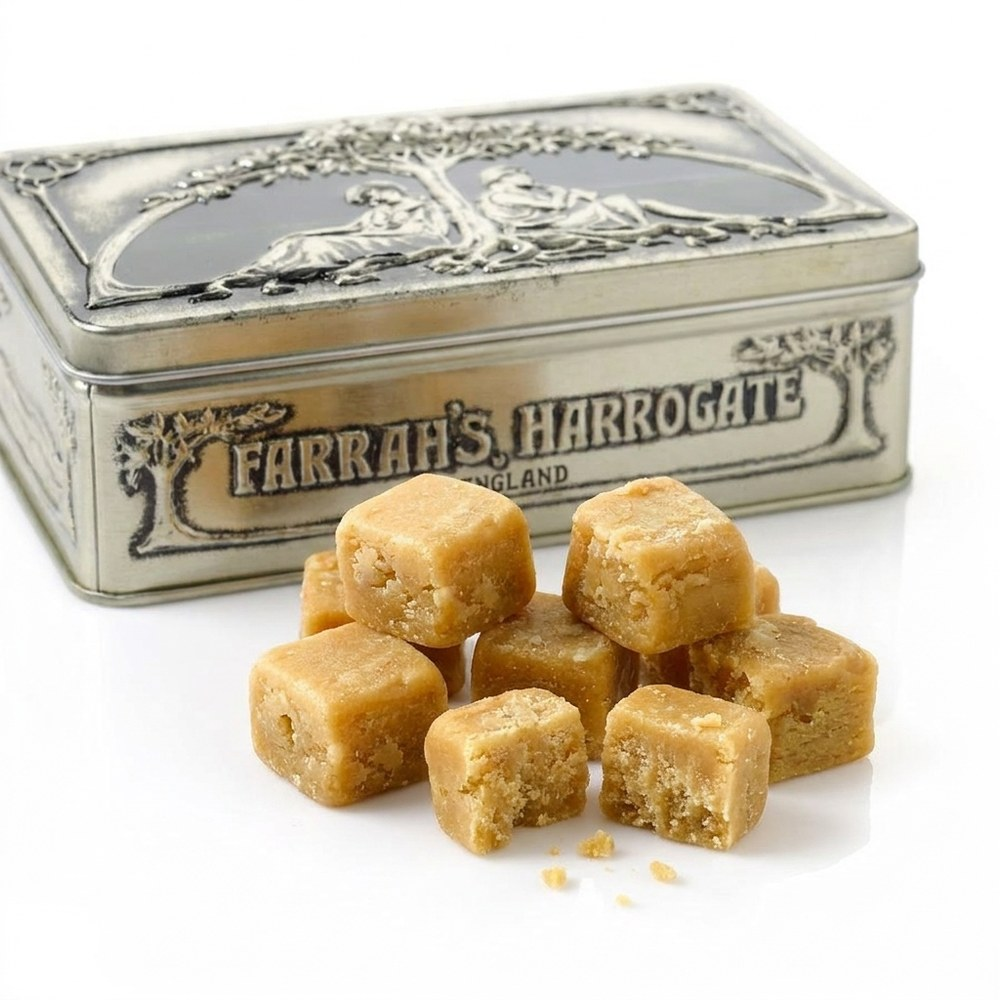
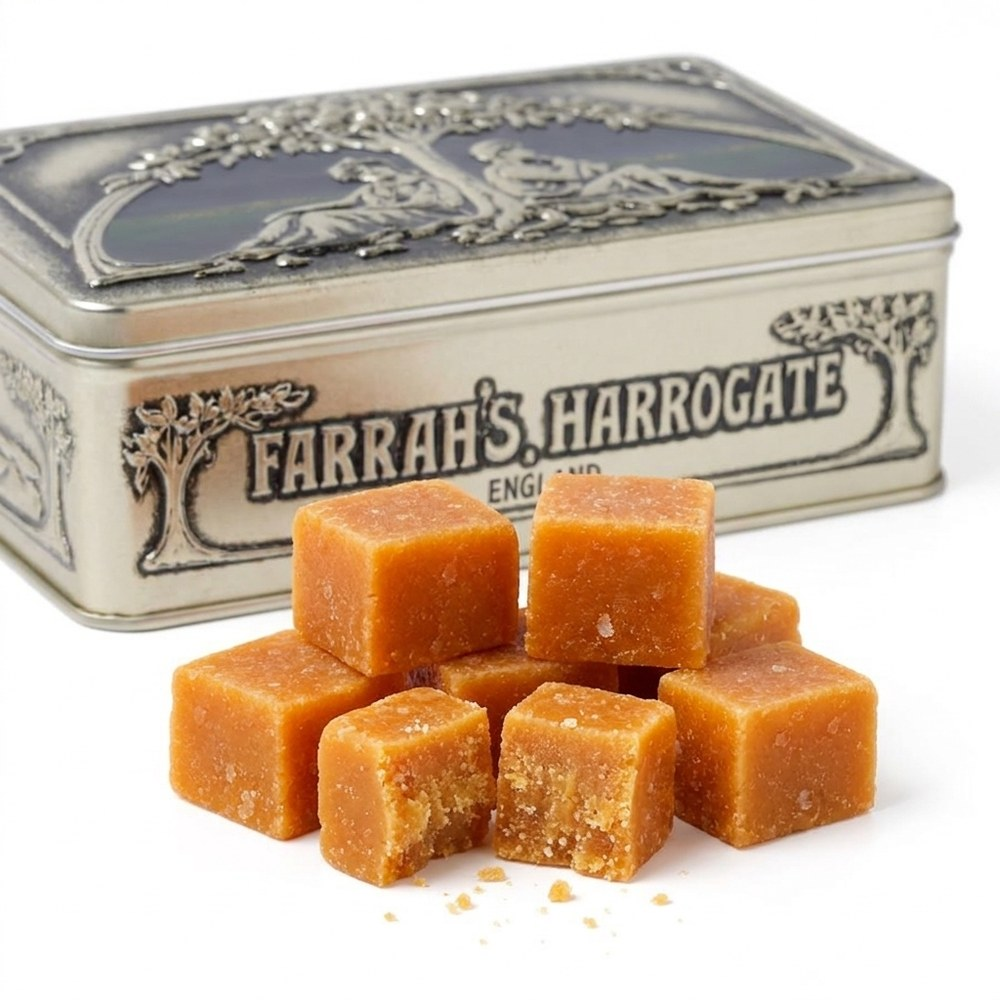
farrahs-demo-v2: chosen tin photo as hero/main/shelf, frames regenerated with catalogue fudge colour

diff --git a/r/farrahs-demo-v2/index.html b/r/farrahs-demo-v2/index.html
@@ -306,12 +306,12 @@
     </div>
     <div class="hero-art">
       <div class="product-sheet">
-        <div class="sheet-top"><span class="micro">YOUR TIN · AS THE NEW MAIN IMAGE</span><span class="sheet-number">B00APYN3TG · SINCE 2012</span></div>
-        <div class="packshot"><img src="img/fudge-real-main.jpg" width="1000" height="1000" alt="Your Art Nouveau fudge tin with six cubes of butter fudge, on white" fetchpriority="high"></div>
+        <div class="sheet-top"><span class="micro">YOUR TIN · THE NEW MAIN IMAGE</span><span class="sheet-number">B00APYN3TG · SINCE 2012</span></div>
+        <div class="packshot"><img src="img/fudge-hero.jpg" width="1000" height="1000" alt="Your Art Nouveau fudge tin with five cubes of butter fudge, on white" fetchpriority="high"></div>
         <div class="sheet-product"><span>FARRAH'S ART NOUVEAU TIN</span><h2>Butter Fudge, 300g</h2><p>654 reviews · 4.6 stars · on Amazon since 2012 · unavailable since 6 October 2025</p></div>
         <div class="sheet-checks"><span><i aria-hidden="true">✓</i> Same page</span><span><i aria-hidden="true">✓</i> Reviews kept</span><span><i aria-hidden="true">✓</i> Your price</span></div>
       </div>
-      <div class="art-caption"><span class="micro">YOUR PHOTOGRAPH</span><span>Your own product shot, from a stockist's listing: this is what the Amazon main image should be</span></div>
+      <div class="art-caption"><span class="micro">MAIN IMAGE</span><span>Built from your product photography: the tin as it is, the fudge as in your catalogue</span></div>
     </div>
   </section>
 
@@ -370,7 +370,7 @@
     <div class="section-heading"><div><p class="eyebrow">02 / THE EXAMPLE</p><h2 id="example-title">Your fudge tin, today <em class="ln">and relisted.</em></h2></div><p>Most Amazon UK shoppers see a page on a phone. This is the first screen: photo, title, stars, and whether they can buy. The left phone is the page as it stands; the right is our concept for the same page. Every phrase and every frame is accounted for below.</p></div>
 
     <div class="phones-block">
-      <div class="page-head"><span class="page-num">01</span><h3>Butter Fudge, Art Nouveau tin 300g</h3><p>654 reviews · 4.6 stars · on Amazon since 2012</p><span class="page-asin">B00APYN3TG</span><dl class="page-delta"><div><dt>Title</dt><dd><s>Farrah's of Harrogate Fudge - 300g Luxury Fudge Art Nouveau Tin</s><br>Farrah's of Harrogate Butter Fudge 300g – Traditional Yorkshire Fudge in an Embossed Art Nouveau Gift Tin, Sweets Gift Box for Christmas</dd></div><div><dt>Main image</dt><dd>Lid close-up on grey → your own photograph of the tin with its fudge, on white</dd></div><div><dt>Offer</dt><dd>None → your price on your account, Prime badge from FBA. £11.98 shown is the tin's last Amazon price, for illustration.</dd></div><div><dt>Bullets</dt><dd>Trade notes → five facts: what is inside, since 1840, the tin, who it is for, how to keep it</dd></div></dl></div>
+      <div class="page-head"><span class="page-num">01</span><h3>Butter Fudge, Art Nouveau tin 300g</h3><p>654 reviews · 4.6 stars · on Amazon since 2012</p><span class="page-asin">B00APYN3TG</span><dl class="page-delta"><div><dt>Title</dt><dd><s>Farrah's of Harrogate Fudge - 300g Luxury Fudge Art Nouveau Tin</s><br>Farrah's of Harrogate Butter Fudge 300g – Traditional Yorkshire Fudge in an Embossed Art Nouveau Gift Tin, Sweets Gift Box for Christmas</dd></div><div><dt>Main image</dt><dd>Lid close-up on grey → the tin with its fudge, on white</dd></div><div><dt>Offer</dt><dd>None → your price on your account, Prime badge from FBA. £11.98 shown is the tin's last Amazon price, for illustration.</dd></div><div><dt>Bullets</dt><dd>Trade notes → five facts: what is inside, since 1840, the tin, who it is for, how to keep it</dd></div></dl></div>
       <div>
       <div class="ph-toggle" role="tablist" aria-label="Show the page"><button type="button" class="on" data-show="today">Today</button><button type="button" data-show="after">Relisted</button></div>
       <div class="phones" data-show="today">
@@ -380,7 +380,7 @@
         </div><img class="ph-frame" src="img/frame/iphone.png" alt="" width="640" height="1283" loading="lazy"></div><figcaption>Today</figcaption></figure>
         <figure class="phone after"><div class="ph-device"><div class="ph-screen">
           <div class="ph-status"></div><div class="ph-search"><svg class="ph-back" viewBox="0 0 16 16" fill="none" stroke="#0f1111" stroke-width="1.8" stroke-linecap="round" stroke-linejoin="round"><path d="M10 2 4 8l6 6"/></svg><span class="ph-box"><svg width="13" height="13" viewBox="0 0 16 16" fill="none" stroke="#565959" stroke-width="1.8" stroke-linecap="round"><circle cx="6.8" cy="6.8" r="5"/><path d="m10.5 10.5 4 4"/></svg>Search or ask a question</span><svg width="16" height="14" viewBox="0 0 20 17" fill="none" stroke="#0f1111" stroke-width="1.6" stroke-linejoin="round"><path d="M2 5h3.5l1.5-2.5h6L14.5 5H18v10H2z"/><circle cx="10" cy="10" r="3"/></svg></div>
-          <div class="ph-body"><div class="ph-store"><a>Visit the Farrah's Store</a><span class="ph-rating"><span>4.6</span><span class="stars">★★★★★</span><span class="ph-n">(654)</span></span></div><div class="ph-title">Farrah's of Harrogate Butter <u>Fudge</u> 300g – Traditional Yorkshire Fudge in an Embossed Art Nouveau <u>Gift Tin</u>, <u>Sweets Gift Box</u> for <u>Christmas</u></div><div class="ph-img"><img src="img/fudge-real-main.jpg" alt="Butter Fudge, Art Nouveau tin 300g relisted: your product photograph as the main image" loading="lazy" width="800" height="800"><div class="ph-dots"><i class="on"></i><i></i><i></i><i></i><i></i><i></i><i></i><span class="ph-icons"><svg width="16" height="15" viewBox="0 0 24 22" fill="none" stroke="#0f1111" stroke-width="1.8"><path d="M12 20s-9-5.6-9-12a5 5 0 0 1 9-3 5 5 0 0 1 9 3c0 6.4-9 12-9 12z"/></svg><svg width="15" height="15" viewBox="0 0 24 24" fill="none" stroke="#0f1111" stroke-width="1.8" stroke-linecap="round"><circle cx="18" cy="5" r="2.5"/><circle cx="6" cy="12" r="2.5"/><circle cx="18" cy="19" r="2.5"/><path d="m8.2 10.8 7.6-4.6M8.2 13.2l7.6 4.6"/></svg></span></div></div><div class="ph-price"><span class="ph-sym">£</span>11.98<small>(£39.93 / kg)</small><span class="ph-prime">✓prime</span></div><div class="ph-avail">In stock</div><div class="ph-save"><span class="ph-btn yellow">Add to Basket</span><span class="ph-btn orange">Buy Now</span></div><div class="ph-nav"><span class="cur"><svg width="20" height="20" viewBox="0 0 24 24" fill="none" stroke="#0f1111" stroke-width="1.7" stroke-linejoin="round"><path d="M3 11 12 3l9 8v10h-6v-6H9v6H3z"/></svg><b>Home</b></span><span><svg width="20" height="20" viewBox="0 0 24 24" fill="none" stroke="#0f1111" stroke-width="1.7"><circle cx="12" cy="8" r="4"/><path d="M4 21a8 8 0 0 1 16 0"/></svg><b>You</b></span><span><svg width="20" height="20" viewBox="0 0 24 24" fill="none" stroke="#0f1111" stroke-width="1.7" stroke-linejoin="round"><path d="M3 4h2l2.5 11h11L21 7H6.5"/><circle cx="9" cy="19" r="1.5"/><circle cx="17" cy="19" r="1.5"/></svg><b>Basket</b></span><span><svg width="20" height="20" viewBox="0 0 24 24" fill="none" stroke="#0f1111" stroke-width="1.7" stroke-linecap="round"><path d="M4 7h16M4 12h16M4 17h16"/></svg><b>Browse</b></span></div><div class="ph-home"></div></div>
+          <div class="ph-body"><div class="ph-store"><a>Visit the Farrah's Store</a><span class="ph-rating"><span>4.6</span><span class="stars">★★★★★</span><span class="ph-n">(654)</span></span></div><div class="ph-title">Farrah's of Harrogate Butter <u>Fudge</u> 300g – Traditional Yorkshire Fudge in an Embossed Art Nouveau <u>Gift Tin</u>, <u>Sweets Gift Box</u> for <u>Christmas</u></div><div class="ph-img"><img src="img/fudge-hero.jpg" alt="Butter Fudge, Art Nouveau tin 300g relisted: the new main image" loading="lazy" width="800" height="800"><div class="ph-dots"><i class="on"></i><i></i><i></i><i></i><i></i><i></i><i></i><span class="ph-icons"><svg width="16" height="15" viewBox="0 0 24 22" fill="none" stroke="#0f1111" stroke-width="1.8"><path d="M12 20s-9-5.6-9-12a5 5 0 0 1 9-3 5 5 0 0 1 9 3c0 6.4-9 12-9 12z"/></svg><svg width="15" height="15" viewBox="0 0 24 24" fill="none" stroke="#0f1111" stroke-width="1.8" stroke-linecap="round"><circle cx="18" cy="5" r="2.5"/><circle cx="6" cy="12" r="2.5"/><circle cx="18" cy="19" r="2.5"/><path d="m8.2 10.8 7.6-4.6M8.2 13.2l7.6 4.6"/></svg></span></div></div><div class="ph-price"><span class="ph-sym">£</span>11.98<small>(£39.93 / kg)</small><span class="ph-prime">✓prime</span></div><div class="ph-avail">In stock</div><div class="ph-save"><span class="ph-btn yellow">Add to Basket</span><span class="ph-btn orange">Buy Now</span></div><div class="ph-nav"><span class="cur"><svg width="20" height="20" viewBox="0 0 24 24" fill="none" stroke="#0f1111" stroke-width="1.7" stroke-linejoin="round"><path d="M3 11 12 3l9 8v10h-6v-6H9v6H3z"/></svg><b>Home</b></span><span><svg width="20" height="20" viewBox="0 0 24 24" fill="none" stroke="#0f1111" stroke-width="1.7"><circle cx="12" cy="8" r="4"/><path d="M4 21a8 8 0 0 1 16 0"/></svg><b>You</b></span><span><svg width="20" height="20" viewBox="0 0 24 24" fill="none" stroke="#0f1111" stroke-width="1.7" stroke-linejoin="round"><path d="M3 4h2l2.5 11h11L21 7H6.5"/><circle cx="9" cy="19" r="1.5"/><circle cx="17" cy="19" r="1.5"/></svg><b>Basket</b></span><span><svg width="20" height="20" viewBox="0 0 24 24" fill="none" stroke="#0f1111" stroke-width="1.7" stroke-linecap="round"><path d="M4 7h16M4 12h16M4 17h16"/></svg><b>Browse</b></span></div><div class="ph-home"></div></div>
         </div><img class="ph-frame" src="img/frame/iphone.png" alt="" width="640" height="1283" loading="lazy"></div><figcaption>Relisted · our concept</figcaption></figure>
       </div>
       </div>
@@ -406,7 +406,7 @@
       <div class="panel">
         <span class="micro">SEVEN FRAMES, ONE QUESTION EACH · THREE SHOWN FOR THIS PAGE</span>
         <div class="frames">
-          <div><i>1</i><img src="img/fudge-real-main.jpg" alt="Frame 1: your photograph of the tin with its fudge on white" loading="lazy" width="400" height="400"><span><b>What is it</b>Your photograph, on white</span></div>
+          <div><i>1</i><img src="img/fudge-hero.jpg" alt="Frame 1: the tin with its fudge on white" loading="lazy" width="400" height="400"><span><b>What is it</b>Main image, on white</span></div>
           <div><i>2</i><img src="img/fudge-inside-real.jpg" alt="Frame 2 concept: the fudge itself, one cube broken open, the tin behind" loading="lazy" width="400" height="400"><span><b>What is inside</b>The fudge, one cube broken open</span></div>
           <div><i>3</i><img src="img/fudge-gift-real.jpg" alt="Frame 3 concept: the tin as a present" loading="lazy" width="400" height="400"><span><b>Is it a present</b>The tin, wrapped</span></div>
         </div>
@@ -416,7 +416,7 @@
           <li><i>6</i><b>What it tastes like</b> butter, sugar, cream</li>
           <li><i>7</i><b>What else is there</b> the gift range</li>
         </ol>
-        <p class="note">Frame 1 is your own photograph. Frames 2 and 3 are built from it for this page, so you can judge the standard; the lid-off shot waits until we have your stock in hand. Frames 4 to 7 are shot or built from your files in the Pilot Wave; every one of the fifty pages gets the same seven.</p>
+        <p class="note">Frames 1 to 3 are built from your product photography for this page, so you can judge the standard; the lid-off shot waits until we have your stock in hand. Frames 4 to 7 are shot or built from your files in the Pilot Wave; every one of the fifty pages gets the same seven.</p>
       </div>
     </div>
 
@@ -547,7 +547,7 @@
         <li><strong>Search phrases.</strong> One year of Amazon UK search data, 1.46 million phrases. The rank shown is the phrase's best weekly position in that year.</li>
         <li><strong>Competitor sales and prices.</strong> Amazon's own "bought in past month" label and listed prices, read on 14 September 2026. Amazon shows a range, not an exact count.</li>
         <li><strong>Fees.</strong> Amazon's published UK referral and FBA rates for confectionery in a parcel under 500 g, rounded to the nearest 10p. Exact fees depend on the packed size and weight of each product and are itemised in the quote.</li>
-        <li><strong>What is real and what is a concept.</strong> Real: every number, date, review count, search rank, competitor price, and the left phone of each pair. Concept: the new titles and bullets, gallery frames 2 and 3, and the Farrah's tile on the shelf (which uses the same photograph). The tin photograph used as the main image is Farrah's own product shot, taken from a stockist's listing. Whether the existing pages can be edited from your account is confirmed at step 03 of the plan, before anything is signed. Titles and bullets follow Amazon's rules and are built for real from your product data and photography once you sign off.</li>
+        <li><strong>What is real and what is a concept.</strong> Real: every number, date, review count, search rank, competitor price, and the left phone of each pair. Concept: the new titles and bullets, the three gallery frames and the hero image (built from Farrah's product photography; the fudge colour follows the Farrah's trade catalogue), and the Farrah's tile on the shelf. Whether the existing pages can be edited from your account is confirmed at step 03 of the plan, before anything is signed. Titles and bullets follow Amazon's rules and are built for real from your product data and photography once you sign off.</li>
       </ul></details>
     </div>
   </section>
